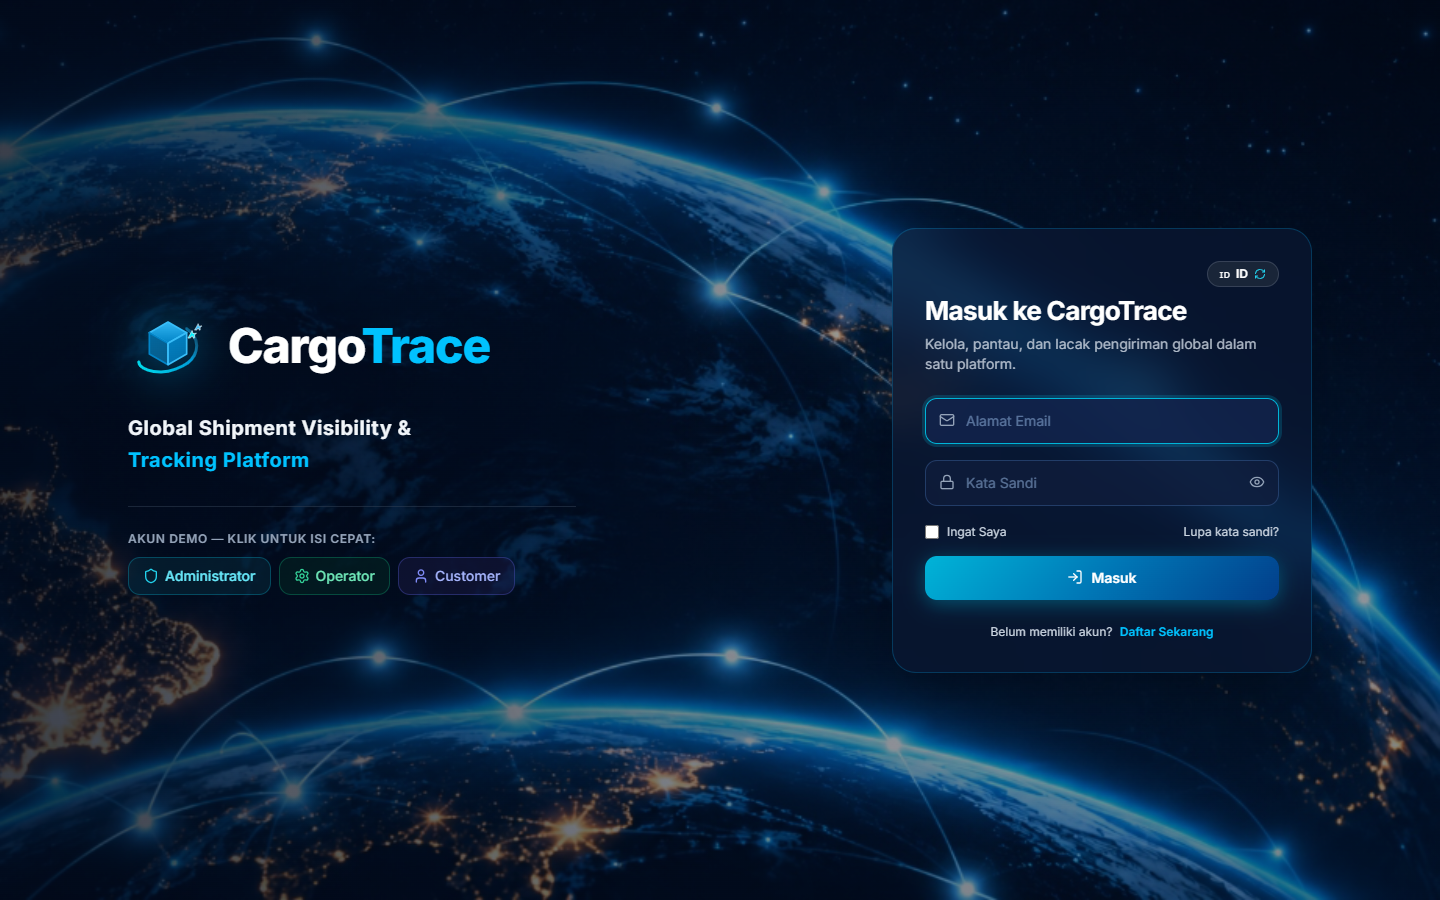
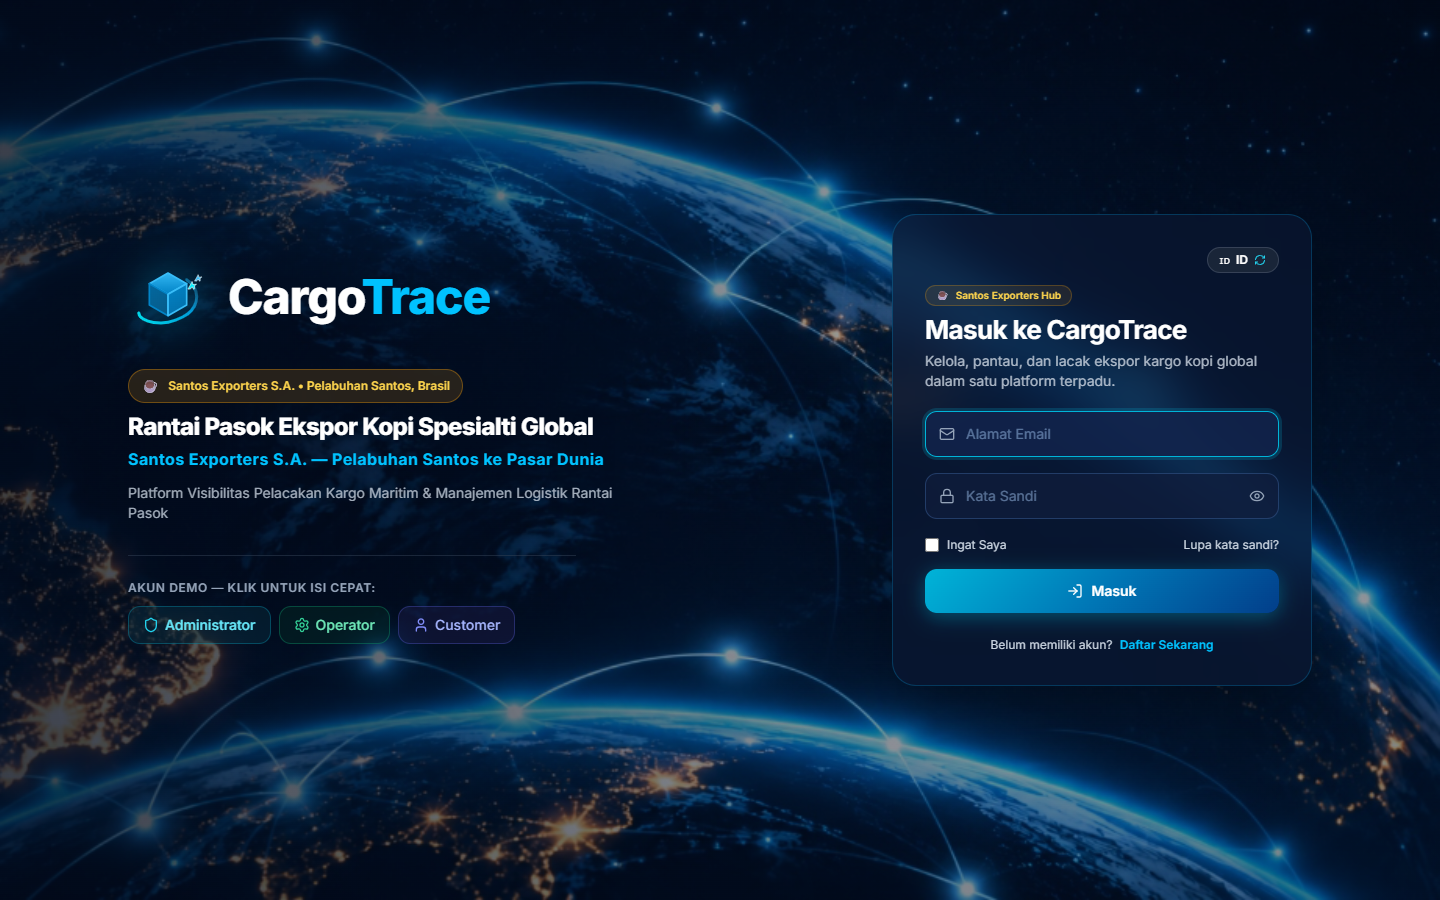
feat(ui): display business theme Santos Exporters S.A. specialty coffee export prominently on login page

Changed region(s): [[0.0938, 0.28, 0.4375, 0.7156], [0.625, 0.3111, 0.9062, 0.7467], [0.8438, 0.28, 0.875, 0.3111]]

diff --git a/resources/views/auth/login.blade.php b/resources/views/auth/login.blade.php
@@ -142,13 +142,25 @@
                 </div>
             </div>
 
-            {{-- Subtitles --}}
-            <div class="mt-2 sm:mt-3 space-y-0.5 sm:space-y-1">
-                <p class="text-base sm:text-lg lg:text-xl font-bold text-slate-100 tracking-wide">
-                    Global Shipment Visibility &
-                </p>
-                <p class="text-base sm:text-lg lg:text-xl font-bold text-[#00C2FF] tracking-wide">
-                    Tracking Platform
+            {{-- Subtitles & Business Theme --}}
+            <div class="mt-3 sm:mt-4 space-y-2">
+                <!-- Business Case Badge -->
+                <div class="inline-flex items-center gap-2 px-3 py-1.5 rounded-full bg-amber-500/15 border border-amber-500/35 text-amber-300 text-xs font-semibold backdrop-blur-sm shadow-sm">
+                    <span class="text-sm">☕</span>
+                    <span>Santos Exporters S.A. &bull; {{ __('Pelabuhan Santos, Brasil') }}</span>
+                </div>
+
+                <div>
+                    <h2 class="text-lg sm:text-xl lg:text-2xl font-extrabold text-white tracking-tight leading-snug">
+                        {{ __('Rantai Pasok Ekspor Kopi Spesialti Global') }}
+                    </h2>
+                    <p class="text-sm sm:text-base font-bold text-[#00C2FF] tracking-wide mt-1 flex items-center gap-2">
+                        <span>{{ __('Santos Exporters S.A. — Pelabuhan Santos ke Pasar Dunia') }}</span>
+                    </p>
+                </div>
+
+                <p class="text-xs sm:text-sm text-slate-300/80 leading-relaxed max-w-lg pt-1">
+                    {{ __('Platform Visibilitas Pelacakan Kargo Maritim & Manajemen Logistik Rantai Pasok') }}
                 </p>
             </div>
 
@@ -193,12 +205,16 @@
                 </div>
 
                 {{-- Card Header --}}
-                <div class="mb-6">
+                <div class="mb-5">
+                    <div class="inline-flex items-center gap-1.5 px-2.5 py-0.5 rounded-full bg-amber-500/10 border border-amber-500/25 text-amber-300 text-[10px] font-semibold mb-2">
+                        <span>☕</span>
+                        <span>Santos Exporters Hub</span>
+                    </div>
                     <h2 class="text-2xl sm:text-[26px] font-bold text-white tracking-tight leading-tight">
                         {{ __('Masuk ke CargoTrace') }}
                     </h2>
-                    <p class="text-xs sm:text-sm text-slate-300/85 mt-1.5 leading-relaxed">
-                        {{ __('Kelola, pantau, dan lacak pengiriman global dalam satu platform.') }}
+                    <p class="text-xs sm:text-sm text-slate-300/85 mt-1 leading-relaxed">
+                        {{ __('Kelola, pantau, dan lacak ekspor kargo kopi global dalam satu platform terpadu.') }}
                     </p>
                 </div>
 
